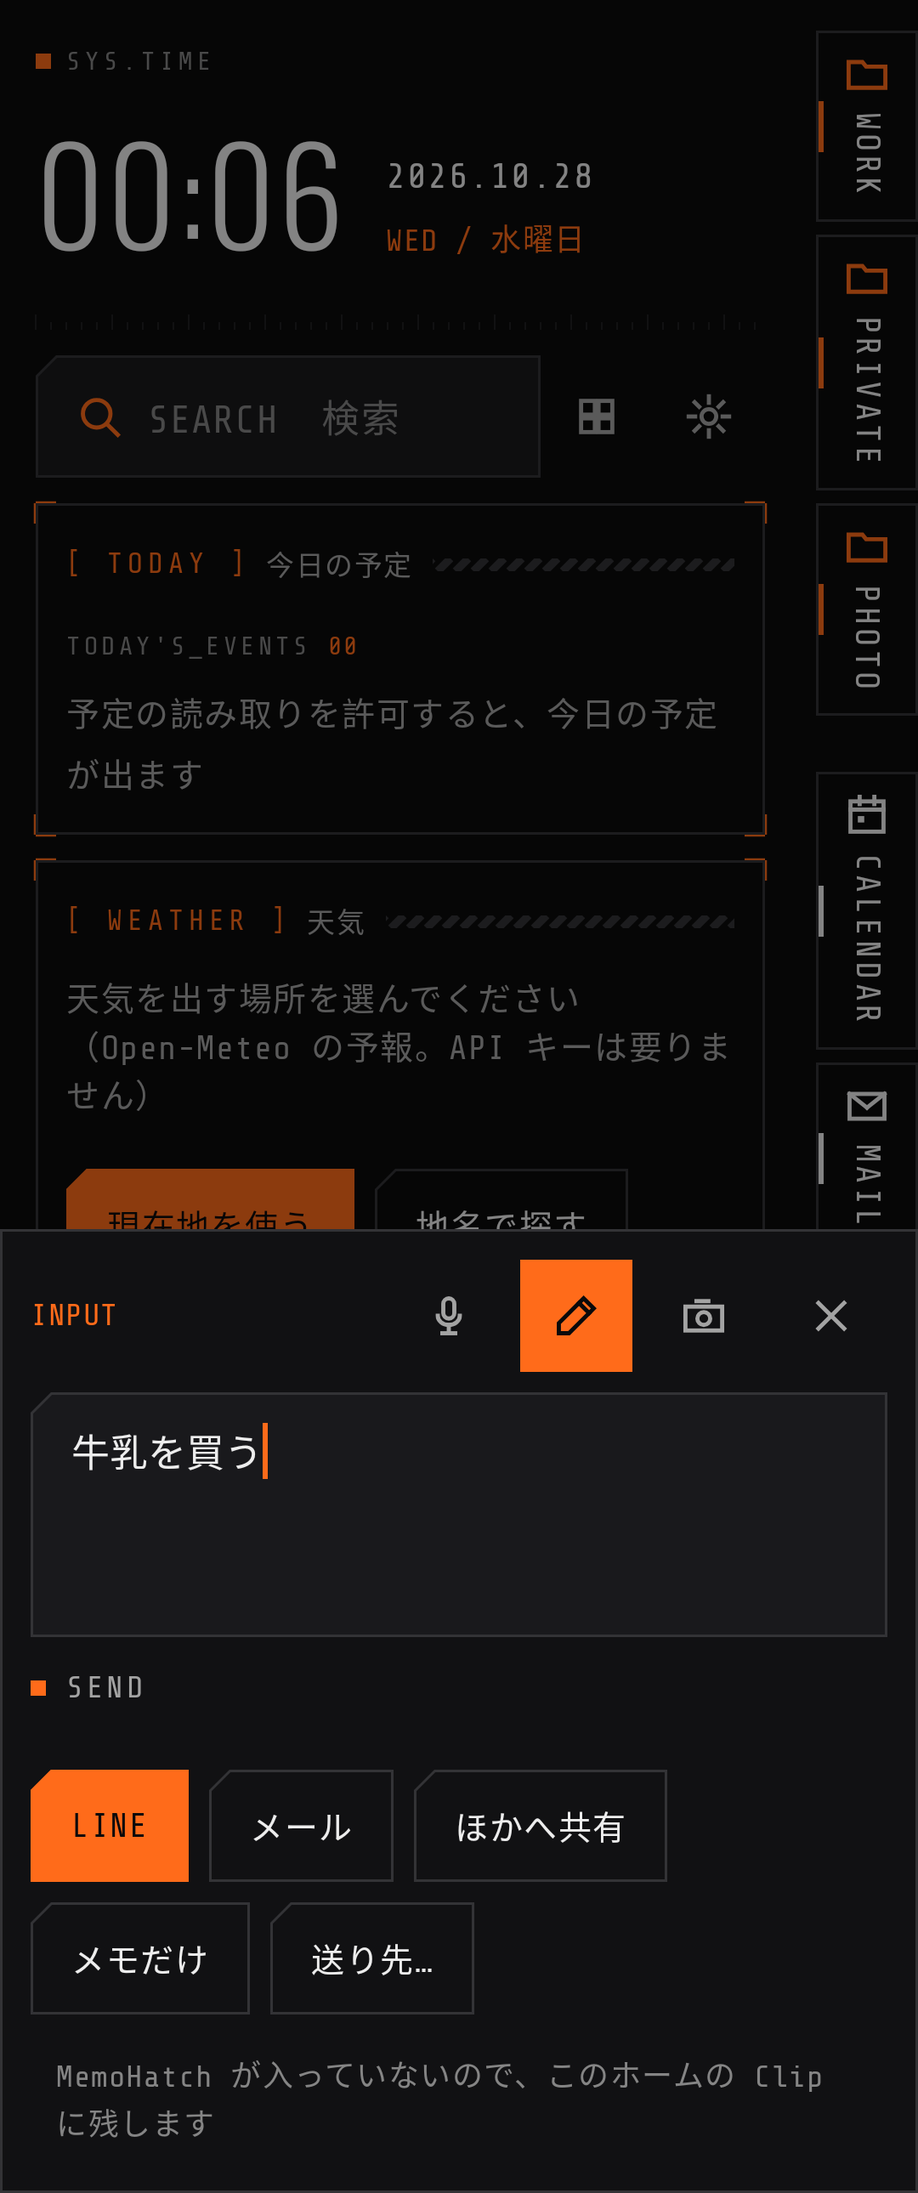
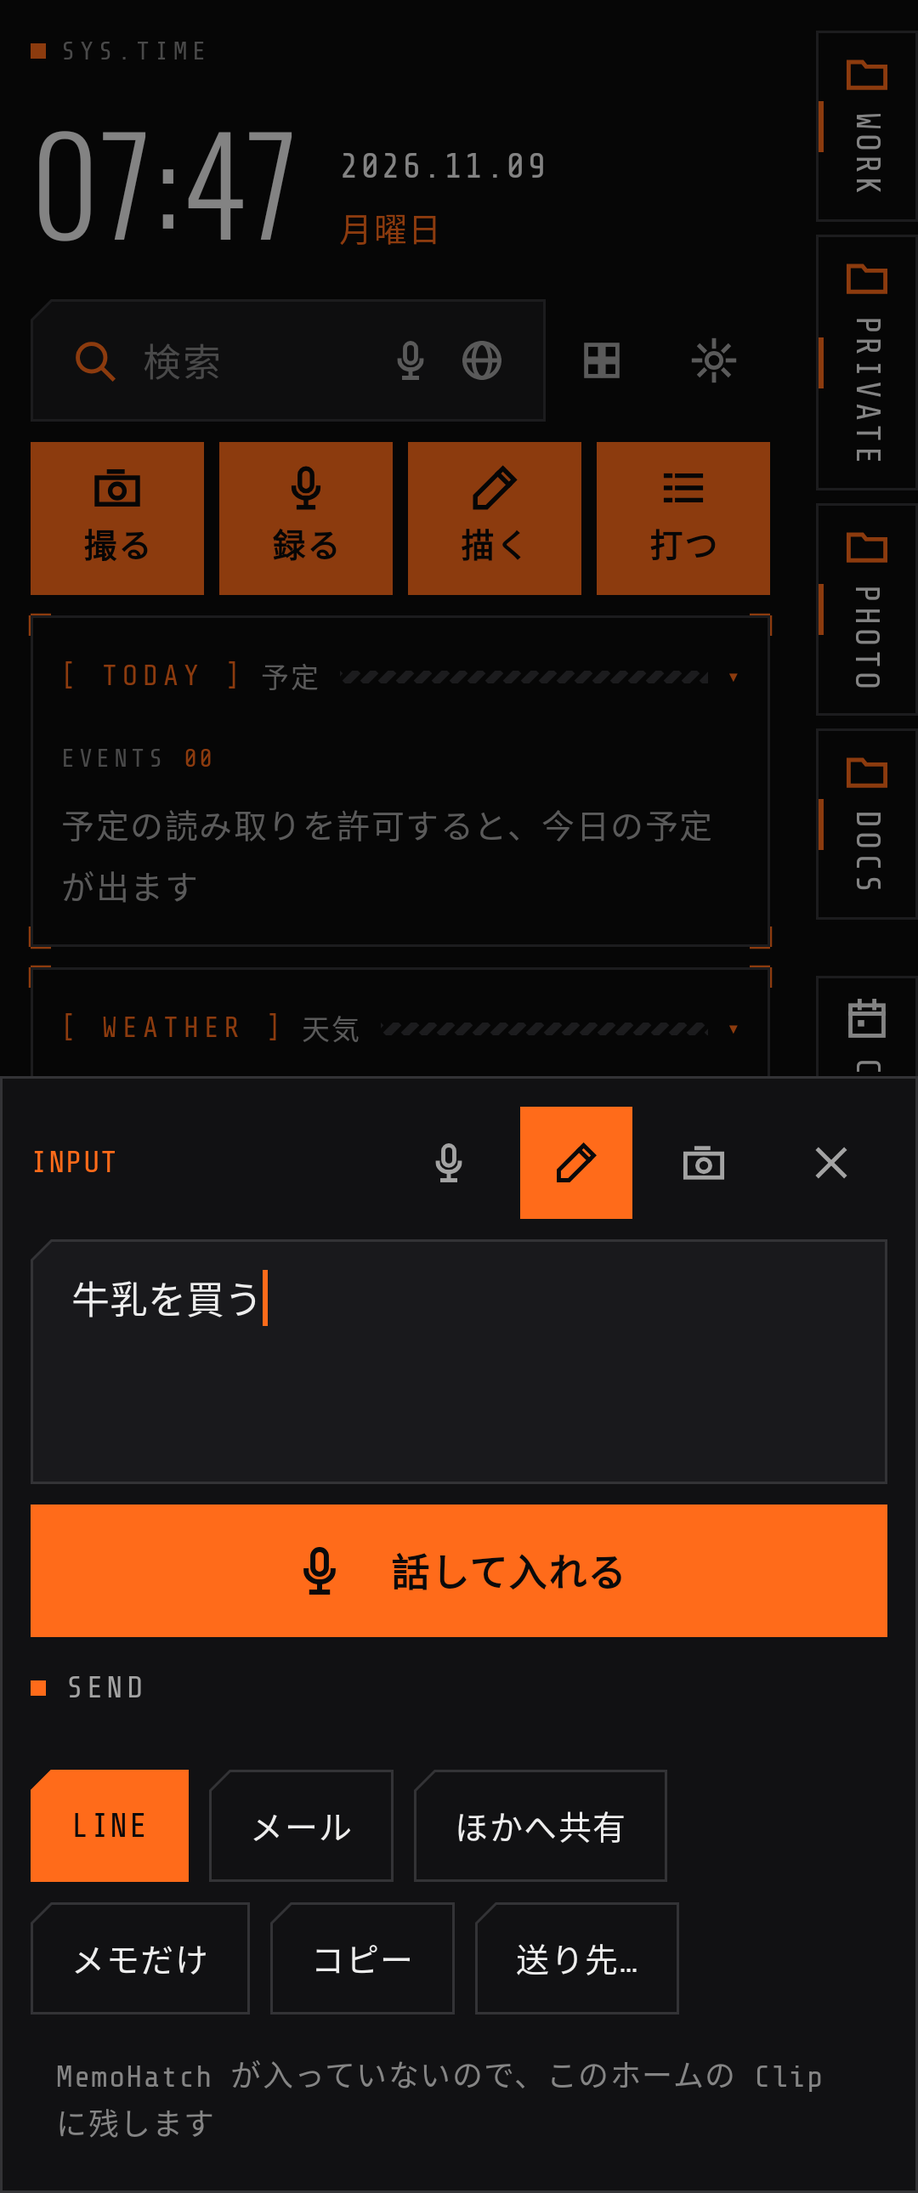
1.3.0: すぐ記録を 4 つに（録るは文字起こし付き）、入力の送り先にコピー・AI、話して入れるボタン
Claude-Session: https://claude.ai/code/session_01GMSgoGarRChJJQLGtjAFKY

diff --git a/app/src/main/java/app/thetahatch/home/HomeModel.kt b/app/src/main/java/app/thetahatch/home/HomeModel.kt
@@ -996,6 +996,27 @@ class HomeModel(app: Application) : AndroidViewModel(app) {
 
     /** 開いている入力の初めのやり方（"voice"・"text"・"photo"）。null なら閉じている。 */
     var quickOpen by mutableStateOf<String?>(null)
+    /** 入力を開くときに最初から入れておく文（録音の文字起こしなど）。開いたら空に戻す。 */
+    var quickPrefill by mutableStateOf("")
+    /** 録音を文字起こししている間 true。 */
+    var transcribing by mutableStateOf(false); private set
+
+    /** 録り終えた録音を Gemini で文字起こしして、入力を開く（送り先を選べる）。キーが無ければ録音だけ残す。 */
+    fun transcribeAndOpen(audio: java.io.File) {
+        val key = store.geminiKey
+        val home = ctx as HomeApp
+        if (key.isEmpty()) { home.toast("録音を「記録」に残しました（Gemini のキーを入れると文字起こしもします）"); return }
+        transcribing = true
+        viewModelScope.launch {
+            val r = runCatching { app.thetahatch.home.data.Transcribe.run(key, audio) }
+            transcribing = false
+            r.onSuccess { quickPrefill = it; quickOpen = "text" }
+                .onFailure { home.toast("文字起こしできませんでした：${it.message}（録音は「記録」に残っています）") }
+        }
+    }
+
+    /** 入力の送り先に出す AI のアプリ（入っているものだけ）。 */
+    fun aiTargets(): List<String> = AI_APPS.filter { (_, pkg) -> apps.any { it.packageName == pkg } }.map { it.key }
     var quickTargets by mutableStateOf(store.quickTargets); private set
     var quickMemo by mutableStateOf(store.quickMemo); private set
     fun changeQuickMemo(v: Boolean) { quickMemo = v; store.quickMemo = v }
@@ -1008,6 +1029,10 @@ class HomeModel(app: Application) : AndroidViewModel(app) {
         t == "mail" -> "メール"
         t == "share" -> "ほかへ共有"
         t == "clip" -> "Clip"
+        t == "copy" -> "コピー"
+        t == "gemini" -> "Gemini"
+        t == "claude" -> "Claude"
+        t == "chatgpt" -> "ChatGPT"
         else -> t
     }
 
@@ -1058,6 +1083,16 @@ class HomeModel(app: Application) : AndroidViewModel(app) {
                 val subject = body.lineSequence().firstOrNull().orEmpty().take(40)
                 if (photo == null) start(Intent(Intent.ACTION_SENDTO, Uri.parse("mailto:")).putExtra(Intent.EXTRA_SUBJECT, subject).putExtra(Intent.EXTRA_TEXT, body).addFlags(Intent.FLAG_ACTIVITY_NEW_TASK))
                 else start(put(Intent(Intent.ACTION_SEND)).putExtra(Intent.EXTRA_SUBJECT, subject).apply { selector = Intent(Intent.ACTION_SENDTO, Uri.parse("mailto:")) })
+            }
+            target == "copy" -> {
+                val cm = ctx.getSystemService(android.content.ClipboardManager::class.java)
+                cm?.setPrimaryClip(android.content.ClipData.newPlainText("Theta Home", body))
+                (ctx as HomeApp).toast("コピーしました")
+            }
+            target in AI_APPS -> {
+                val pkg = AI_APPS.getValue(target)
+                if (apps.none { it.packageName == pkg }) (ctx as HomeApp).toast("${quickTargetLabel(target)} のアプリが入っていません")
+                else start(put(Intent(Intent.ACTION_SEND).setPackage(pkg)))
             }
             target == "clip" -> {
                 if (!(quickMemo && !memoInstalled())) { addToClip(ctx, body.ifEmpty { null }, listOfNotNull(photo)); reloadClips() }
@@ -2233,6 +2268,9 @@ class HomeModel(app: Application) : AndroidViewModel(app) {
         const val DSBOOKS = "jp.shinwakai.dsbooks.preview"
         const val MEMO = "jp.yaegaki.theta.memo"
         const val LINE = "jp.naver.line.android"
+
+        /** 入力の送り先にできる AI のアプリ。 */
+        val AI_APPS = linkedMapOf("gemini" to "com.google.android.apps.bard", "claude" to "com.anthropic.claude", "chatgpt" to "com.openai.chatgpt")
 
         /** ピン留めできる機能。pkg のアプリが入っているときだけ出す（fallback は無くても出す）。 */
         val DOCK_ACTIONS = listOf(

diff --git a/app/src/main/java/app/thetahatch/home/ui/Dashboard.kt b/app/src/main/java/app/thetahatch/home/ui/Dashboard.kt
@@ -202,8 +202,8 @@ private fun MusicPanel(model: HomeModel) {
 }
 
 /**
- * すぐ記録：撮る（写真に言葉を添えて残す）・録る（録音。もう一度押すと止める）・書く（文字で残す）。
- * 撮る・書くは「入力」と同じで、MemoHatch に残してから送り先を選べる。録音は記録（CAPTURE）に残る。
+ * すぐ記録：撮る（写真に言葉を添えて残す）・録る（録音。止めると Gemini で文字起こしして入力を開く）・描く（手書き）・打つ（文字）。
+ * 撮る・打つは「入力」と同じで、MemoHatch に残してから送り先（LINE・メール・AI・コピー）を選べる。録音と手書きは記録（CAPTURE）に残る。
  */
 @Composable
 private fun QuickSection(model: HomeModel) {
@@ -212,9 +212,17 @@ private fun QuickSection(model: HomeModel) {
     val ctx = actions.activity
     val recording by app.thetahatch.home.capture.RecordingService.startedAt.collectAsState()
     var now by remember { mutableStateOf(System.currentTimeMillis()) }
+    var wasRecording by remember { mutableStateOf(false) }
+    var inking by remember { mutableStateOf(false) }
     LaunchedEffect(recording) {
+        if (recording != null) wasRecording = true
         while (recording != null) { now = System.currentTimeMillis(); delay(1000) }
         model.refreshCaptures()
+        // ここで止めた録音は、文字起こしして入力を開く
+        if (wasRecording) {
+            wasRecording = false
+            app.thetahatch.home.capture.RecordingService.lastFile.value?.let { model.transcribeAndOpen(it) }
+        }
     }
     fun record() {
         if (recording != null) { app.thetahatch.home.capture.RecordingService.stop(ctx); return }
@@ -232,20 +240,23 @@ private fun QuickSection(model: HomeModel) {
     fun androidx.compose.foundation.layout.RowScope.Big(glyph: Glyph, label: String, on: Boolean, desc: String, onClick: () -> Unit) {
         val bg = if (on) p.accent2 else p.accent
         Column(
-            Modifier.weight(1f).height(64.dp).popShadow(p, shape).clip(shape).background(bg)
+            Modifier.weight(1f).height(60.dp).popShadow(p, shape).clip(shape).background(bg)
                 .clickable(onClickLabel = desc, onClick = onClick),
             horizontalAlignment = Alignment.CenterHorizontally, verticalArrangement = Arrangement.Center,
         ) {
-            GlyphIcon(glyph, p.onAccent, 22.dp)
+            GlyphIcon(glyph, p.onAccent, 20.dp)
             Text(label, color = p.onAccent, fontSize = 13.sp, fontWeight = FontWeight.Bold, maxLines = 1)
         }
     }
-    Row(horizontalArrangement = Arrangement.spacedBy(8.dp)) {
+    Row(horizontalArrangement = Arrangement.spacedBy(6.dp)) {
         Big(Glyph.CAMERA, "撮る", false, "写真を撮って残す") { model.quickOpen = "photo" }
         val rec = recording
-        Big(Glyph.MIC, if (rec != null) "■ ${(now - rec) / 1000}秒" else "録る", rec != null, if (rec != null) "録音を止める" else "録音する") { record() }
-        Big(Glyph.PENCIL, "書く", false, "文字で残す") { model.quickOpen = "text" }
+        Big(Glyph.MIC, when { rec != null -> "■ ${(now - rec) / 1000}秒"; model.transcribing -> "文字起こし…"; else -> "録る" }, rec != null || model.transcribing,
+            if (rec != null) "録音を止めて文字起こし" else "録音する（止めると文字起こし）") { if (!model.transcribing) record() }
+        Big(Glyph.PENCIL, "描く", false, "手書きで残す") { inking = true }
+        Big(Glyph.LIST, "打つ", false, "文字で入れて送る") { model.quickOpen = "text" }
     }
+    if (inking) InkDialog(onDismiss = { inking = false }) { file -> inking = false; model.refreshCaptures(); actions.toast("保存しました：${file.name}") }
 }
 
 /** ピン留めしたファイルの区画。留めたものが無ければ出さない。押すと開く。 */

diff --git a/app/src/main/java/app/thetahatch/home/data/Transcribe.kt b/app/src/main/java/app/thetahatch/home/data/Transcribe.kt
@@ -1,0 +1,64 @@
+package app.thetahatch.home.data
+
+import android.util.Base64
+import kotlinx.coroutines.Dispatchers
+import kotlinx.coroutines.withContext
+import org.json.JSONArray
+import org.json.JSONObject
+import java.io.File
+import java.io.IOException
+import java.net.HttpURLConnection
+import java.net.URL
+
+/** 録音を Gemini で文字起こしする（キーは設定の Gemini のもの）。結果は録音の横に .txt で残す。 */
+object Transcribe {
+    private val MODELS = listOf("gemini-2.5-flash", "gemini-2.5-flash-lite", "gemini-2.0-flash")
+    /** Gemini にそのまま送れる大きさ（約 18 分ぶん）。 */
+    const val MAX_BYTES = 18L * 1024 * 1024
+
+    fun textFile(audio: File) = File(audio.parentFile, audio.nameWithoutExtension + ".txt")
+
+    suspend fun run(apiKey: String, audio: File): String = withContext(Dispatchers.IO) {
+        if (audio.length() > MAX_BYTES) throw IOException("録音が長すぎて文字起こしできません（18 分くらいまで）")
+        val body = JSONObject().put("contents", JSONArray().put(JSONObject().put("parts", JSONArray()
+            .put(JSONObject().put("text", "この録音を日本語で文字起こししてください。話した言葉だけを、句読点を付けて返してください。聞き取れない所は（不明）と書いてください。"))
+            .put(JSONObject().put("inline_data", JSONObject().put("mime_type", "audio/mp4").put("data", Base64.encodeToString(audio.readBytes(), Base64.NO_WRAP)))))))
+            .toString()
+        var last: Exception? = null
+        for (m in MODELS) {
+            try {
+                val text = call(apiKey, m, body)
+                runCatching { textFile(audio).writeText(text) }
+                return@withContext text
+            } catch (e: NotFound) {
+                last = e
+            }
+        }
+        throw last ?: IOException("Gemini を呼べませんでした")
+    }
+
+    private class NotFound : IOException("モデルが見つかりません")
+
+    private fun call(apiKey: String, model: String, body: String): String {
+        val c = URL("https://generativelanguage.googleapis.com/v1beta/models/$model:generateContent").openConnection() as HttpURLConnection
+        c.connectTimeout = 20_000
+        c.readTimeout = 120_000
+        c.requestMethod = "POST"
+        c.doOutput = true
+        c.setRequestProperty("Content-Type", "application/json")
+        c.setRequestProperty("x-goog-api-key", apiKey)
+        c.outputStream.use { it.write(body.toByteArray()) }
+        val code = c.responseCode
+        if (code == 404) throw NotFound()
+        if (code !in 200..299) {
+            val err = c.errorStream?.bufferedReader()?.readText().orEmpty()
+            val msg = runCatching { JSONObject(err).getJSONObject("error").getString("message") }.getOrDefault(err.take(200))
+            throw IOException("Gemini HTTP $code：$msg")
+        }
+        val parts = JSONObject(c.inputStream.bufferedReader().readText())
+            .optJSONArray("candidates")?.optJSONObject(0)?.optJSONObject("content")?.optJSONArray("parts")
+            ?: throw IOException("文字起こしが返りませんでした")
+        return (0 until parts.length()).joinToString("") { parts.getJSONObject(it).optString("text") }.trim()
+            .ifEmpty { throw IOException("文字起こしが空でした") }
+    }
+}

diff --git a/app/src/main/java/app/thetahatch/home/ui/QuickInput.kt b/app/src/main/java/app/thetahatch/home/ui/QuickInput.kt
@@ -1,5 +1,7 @@
 package app.thetahatch.home.ui
 
+import androidx.compose.ui.text.font.FontWeight
+import androidx.compose.foundation.layout.height
 import android.graphics.BitmapFactory
 import android.net.Uri
 import androidx.activity.compose.BackHandler
@@ -63,7 +65,7 @@ private fun QuickBody(model: HomeModel, startMode: String) {
     val actions = LocalActions.current
     val ctx = actions.activity
     var mode by remember { mutableStateOf(startMode) }
-    var text by remember { mutableStateOf("") }
+    var text by remember { mutableStateOf(model.quickPrefill.also { model.quickPrefill = "" }) }
     var partial by remember { mutableStateOf("") }
     var photo by remember { mutableStateOf<File?>(null) }
     var editTargets by remember { mutableStateOf(false) }
@@ -144,11 +146,28 @@ private fun QuickBody(model: HomeModel, startMode: String) {
                     }
                 }
             }
+            // 声で入れる：大きく目立つボタン（押すと聞き取り、もう一度で止める）
+            Row(
+                Modifier.fillMaxWidth().height(52.dp).background(if (voice.listening) p.accent2 else p.accent)
+                    .clickable(onClickLabel = if (voice.listening) "聞き取りを止める" else "声で入れる") {
+                        mode = "voice"; if (voice.listening) voice.stop() else voice.start()
+                    },
+                verticalAlignment = Alignment.CenterVertically, horizontalArrangement = Arrangement.Center,
+            ) {
+                GlyphIcon(Glyph.MIC, p.onAccent, 22.dp)
+                Text(if (voice.listening) "  聞き取り中…（押すと止める）" else "  話して入れる", color = p.onAccent, fontSize = 15.sp, fontWeight = FontWeight.Bold)
+            }
             SectionTitle("SEND")
             FlowRow2 {
                 model.quickTargets.forEachIndexed { i, t -> PillButton(model.quickTargetLabel(t), { send(t) }, primary = i == 0) }
                 PillButton("メモだけ", { send("memo") })
+                PillButton("コピー", { send("copy") })
                 PillButton("送り先…", { editTargets = true })
+            }
+            val ai = model.aiTargets().filter { it !in model.quickTargets }
+            if (ai.isNotEmpty()) {
+                SectionTitle("AI に聞く")
+                FlowRow2 { ai.forEach { t -> PillButton(model.quickTargetLabel(t), { send(t) }) } }
             }
             Note(
                 if (!model.quickMemo) "MemoHatch には残しません（送り先… で変えられます）"
@@ -207,7 +226,7 @@ private fun TargetsDialog(model: HomeModel, onDismiss: () -> Unit) {
         text = {
             Column(Modifier.verticalScroll(rememberScrollState()), verticalArrangement = Arrangement.spacedBy(2.dp)) {
                 Note("押した順に並びます（1 番目が目立つボタン）")
-                listOf("line", "mail", "share", "clip").forEach { Row1(it) }
+                (listOf("line", "mail", "share", "clip", "copy") + HomeModel.AI_APPS.keys).forEach { Row1(it) }
                 SectionTitle("LINE の決まった宛先")
                 if (lineTargets.isEmpty()) Note("LINE で最近話した相手が見つかりません（このホームを既定のホームにして、LINE で一度共有すると出ます）")
                 lineTargets.forEach { Row1(it) }

diff --git a/app/src/main/java/app/thetahatch/home/capture/RecordingService.kt b/app/src/main/java/app/thetahatch/home/capture/RecordingService.kt
@@ -84,6 +84,7 @@ class RecordingService : Service() {
             }
         }
         recorder = null
+        output?.takeIf { it.exists() && it.length() > 0 }?.let { last.value = it }
         state.value = null
         stopForeground(STOP_FOREGROUND_REMOVE)
         stopSelf()
@@ -102,6 +103,10 @@ class RecordingService : Service() {
         /** 録音を始めた時刻。録音していなければ null。 */
         private val state = MutableStateFlow<Long?>(null)
         val startedAt: StateFlow<Long?> = state
+
+        /** 最後に録り終えたファイル（すぐ記録の「録る」で文字起こしに使う）。 */
+        private val last = MutableStateFlow<java.io.File?>(null)
+        val lastFile: StateFlow<java.io.File?> = last
 
         fun start(context: Context) {
             context.startForegroundService(Intent(context, RecordingService::class.java))

diff --git a/docs/index.html b/docs/index.html
@@ -177,7 +177,7 @@ footer { margin-top:80px; border-top:1px solid var(--line); padding:24px 0 40px;
       <p class="lead">背景はファイラー、画面の端にタブ。<br>アイコンを並べない、計器盤（HUD）のようなホームアプリ。</p>
       <div class="ticks"></div>
       <div style="margin:16px 0">
-        <span class="readout"><span class="label">VERSION</span><b id="ver">1.2.1</b></span>
+        <span class="readout"><span class="label">VERSION</span><b id="ver">1.3.0</b></span>
         <span class="readout"><span class="label">ANDROID</span><b>10+</b></span>
         <span class="readout alert"><span class="label">STATUS</span><b>BETA</b></span>
       </div>

diff --git a/app/src/main/java/app/thetahatch/home/ui/CaptureDrawer.kt b/app/src/main/java/app/thetahatch/home/ui/CaptureDrawer.kt
@@ -132,7 +132,7 @@ fun CaptureDrawer(model: HomeModel) {
 
 /** 手書き。ペン優先なら指の入力は無視する（手のひらで線が出ない）。筆圧で太さが変わる。消しゴム側は線を消す。 */
 @Composable
-private fun InkDialog(onDismiss: () -> Unit, onSaved: (File) -> Unit) {
+internal fun InkDialog(onDismiss: () -> Unit, onSaved: (File) -> Unit) {
     val p = LocalPalette.current
     val ctx = LocalActions.current.activity
     val density = LocalDensity.current.density

diff --git a/README.md b/README.md
@@ -8,7 +8,7 @@
 スマホはアプリには行きやすいのにファイルには行きにくいので、PC のデスクトップのように「ファイルの置き場」をホームにする。ただ散らかして置くのではなく、ファイラーとして置く。
 
 - **ダウンロード：[Releases](https://github.com/kiwiman0706-beep/Theta.Home.Hatch/releases)**（`ThetaHomeHatch-<版>.apk`）
-- 版：**1.2.1（versionCode 121）**／package `app.thetahatch.home`（0.42 までは `jp.yaegaki.theta.home`）／Android 10（API 29）以上
+- 版：**1.3.0（versionCode 130）**／package `app.thetahatch.home`（0.42 までは `jp.yaegaki.theta.home`）／Android 10（API 29）以上
 - [Theta Hatch シリーズ](https://github.com/kiwiman0706-beep/Theta.Hatch.Series)の 1 つ。シリーズの**更新のハブ・設定のハブ**を兼ねる（下の「Hatch シリーズのハブ」）
 - 対象：Galaxy Z Fold5（カバー・メイン）、Alldocube iPlay 60 / 80 Pro 系、Unihertz Titan 2（物理キーボード）
 - **実機での確認はまだです。** 画面は JVM 上で描いて確かめています（[`docs/screenshots/`](docs/screenshots)）。

diff --git a/docs/release-notes/v1.3.0.md b/docs/release-notes/v1.3.0.md
@@ -1,0 +1,13 @@
+# Theta Home Hatch 1.3.0
+
+- **すぐ記録が 4 つ**になりました：撮る・録る・描く（手書き）・打つ（文字）
+- **録るは文字起こし付き**：録音を止めると Gemini で文字起こしして、入力の画面に文字を入れて開きます。そこから LINE・メール・AI・コピー・メモへ送れます
+  - 録音と文字は「記録」に残ります。Gemini のキー（設定 → アイコンの Gemini と同じもの）が無いときは録音だけ残します
+  - 18 分くらいまでの録音が対象です
+- **入力の送り先**を増やしました
+  - **コピー**（クリップボード）
+  - **AI に聞く**：Gemini・Claude・ChatGPT（入っているアプリだけ出ます）
+  - 「送り先…」で、いつもの送り先の並びにも入れられます
+- 入力の画面に「**話して入れる**」の大きなボタンを置きました
+
+実機での確認はまだです。

diff --git a/CHANGELOG.md b/CHANGELOG.md
@@ -1,5 +1,12 @@
 # 変更履歴
 
+## 1.3.0（2026-11-09）
+
+- **すぐ記録を 4 つに**：撮る・録る・描く（手書き）・打つ（文字）
+- **録るは文字起こし付き**：止めると Gemini で文字起こしして、入力の画面に入れて開く（送り先を選べる）。録音と文字は「記録」に残る（Gemini のキーが無ければ録音だけ）
+- **入力の送り先**：コピー（クリップボード）、AI に聞く（Gemini・Claude・ChatGPT。入っているアプリだけ）。送り先… でいつもの並びにも入れられる
+- 入力の画面に「**話して入れる**」の大きなボタン
+
 ## 1.2.1（2026-11-09）
 
 - 更新で「入っている版より新しくありません」と出て更新できないことがあったのを直した（前に確かめた古い版を入れようとしていた。入れる直前に最新を読み直す）
